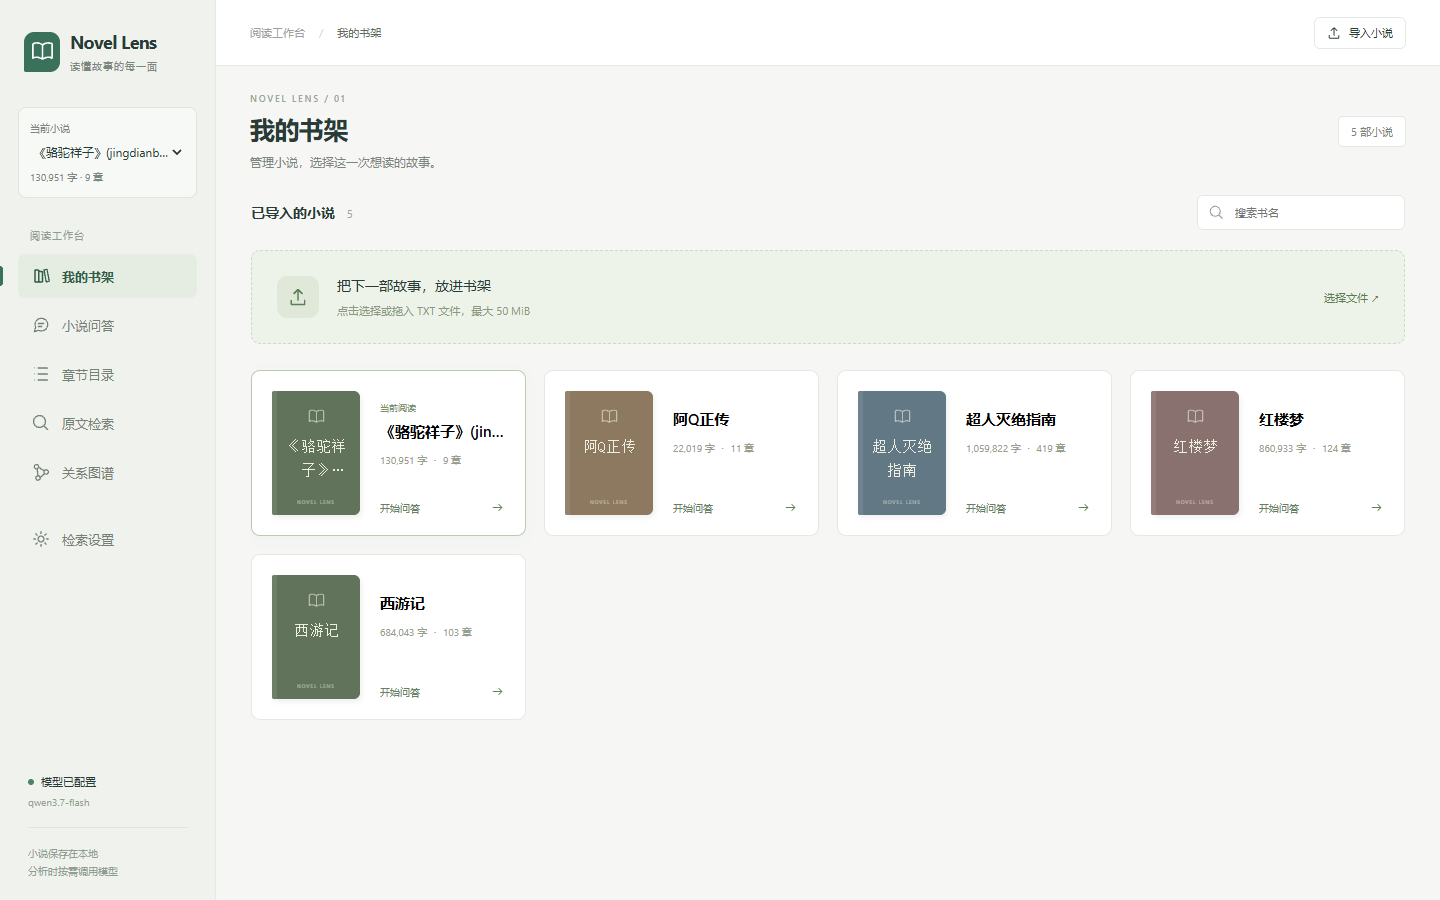
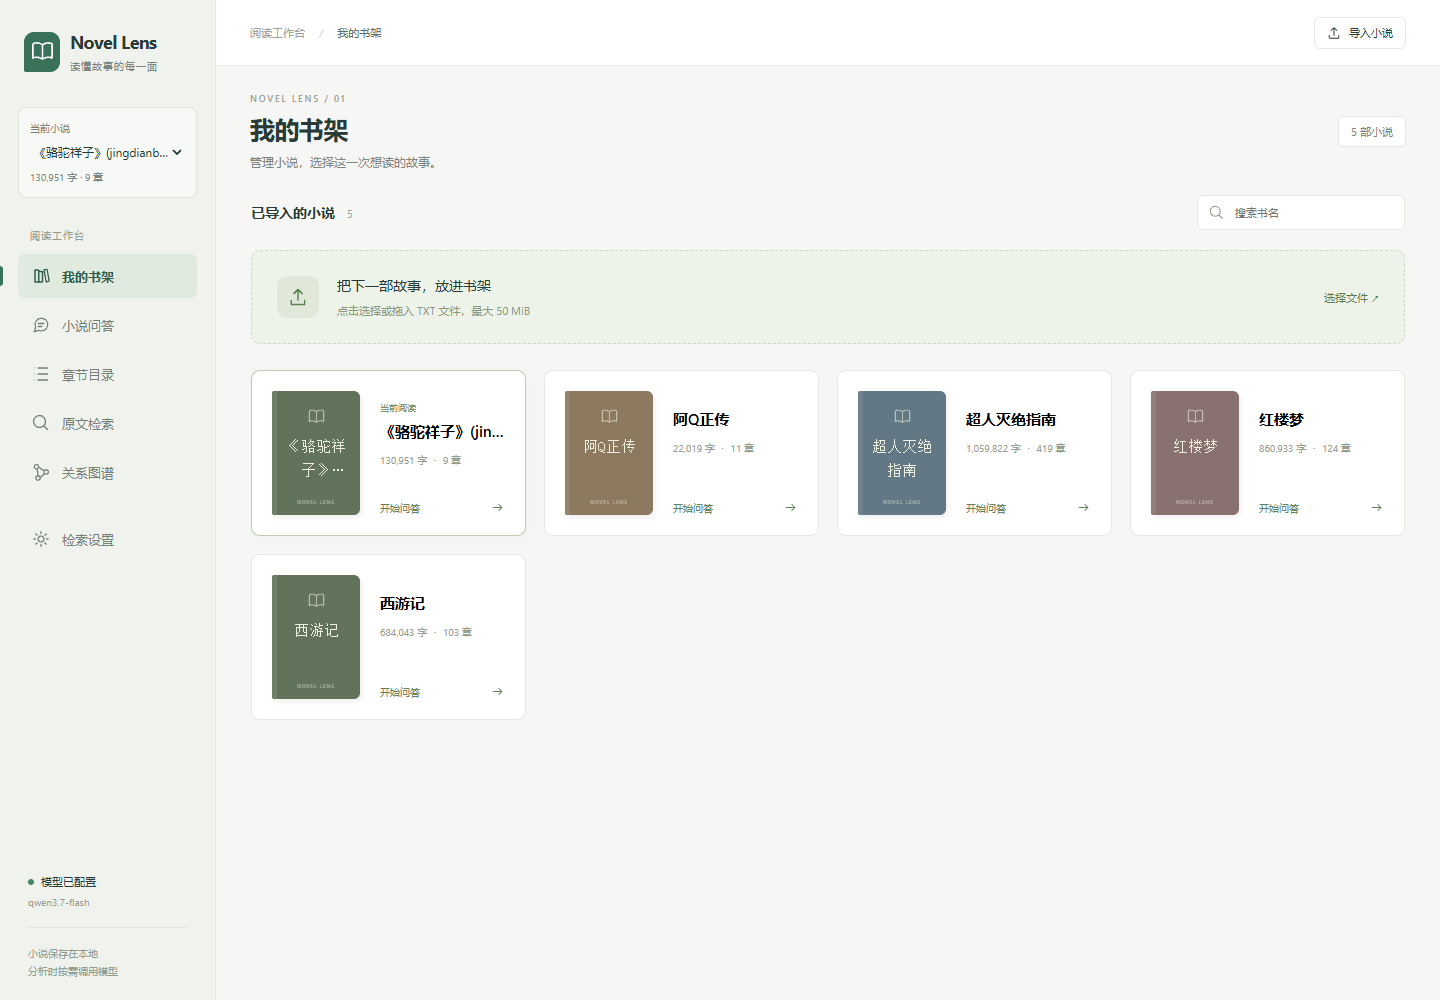
1

diff --git a/frontend/src/components/KnowledgeGraphCanvas.vue b/frontend/src/components/KnowledgeGraphCanvas.vue
@@ -80,6 +80,18 @@ function changeZoom(factor: number) {
   if (!cy) return
   cy.zoom({ level: cy.zoom() * factor, renderedPosition: { x: cy.width() / 2, y: cy.height() / 2 } })
 }
+function handleWheel(event: WheelEvent) {
+  // Handle wheels before Cytoscape so normal scrolling can reach the page's
+  // native scroll container without changing the graph or swallowing scroll.
+  event.stopImmediatePropagation()
+  if (!event.ctrlKey || !cy || !host.value) return
+  event.preventDefault()
+  const unit = event.deltaMode === 1 ? 16 : event.deltaMode === 2 ? cy.height() : 1
+  const delta = Math.max(-200, Math.min(200, event.deltaY * unit))
+  const level = Math.max(cy.minZoom(), Math.min(cy.maxZoom(), cy.zoom() * Math.exp(-delta * 0.002)))
+  const bounds = host.value.getBoundingClientRect()
+  cy.zoom({ level, renderedPosition: { x: event.clientX - bounds.left, y: event.clientY - bounds.top } })
+}
 function selectEdge() {
   if (!cy) return
   cy.edges().removeClass('active')
@@ -185,7 +197,7 @@ onBeforeUnmount(() => { disposed = true; observer?.disconnect(); cy?.destroy() }
       </div>
     </div>
     <p v-if="error" class="graph-canvas-error" role="alert">{{ error }}</p>
-    <div ref="host" class="graph-canvas" aria-label="实体关系图；完整内容亦可在下方列表中查看"></div>
+    <div ref="host" class="graph-canvas" aria-label="实体关系图；Ctrl 加滚轮缩放，完整内容亦可在下方列表中查看" @wheel.capture="handleWheel"></div>
     <div class="graph-canvas-footer">
       <div class="graph-legend"><span v-for="type in legend" :key="type.label"><i :style="{ background: type.color }"></i>{{ type.label }}</span><span v-if="rootId" class="graph-root-hint">光晕标记查询实体</span></div>
       <div class="graph-zoom-controls">
@@ -197,6 +209,6 @@ onBeforeUnmount(() => { disposed = true; observer?.disconnect(); cy?.destroy() }
       <template v-else-if="inspectedEdge"><strong>{{ nodeName(inspectedEdge.source) }} {{ symmetric.includes(inspectedEdge.type) ? '↔' : '→' }} {{ nodeName(inspectedEdge.target) }}</strong><span>{{ relationText }}</span></template>
       <span v-else>{{ dense ? '关系较多，悬停或点选连线可清楚查看关系文字；也可切换为全部显示。' : '悬停查看完整名称与关系，点击连线查看原文证据。' }}</span>
     </div>
-    <p class="graph-canvas-help">拖动画布平移 · 拖动节点调整位置 · 滚轮缩放 · 原大查看可按实际字号阅读</p>
+    <p class="graph-canvas-help">拖动画布平移 · 拖动节点调整位置 · Ctrl + 滚轮缩放 · 原大查看可按实际字号阅读</p>
   </div>
 </template>

diff --git a/frontend/src/components/KnowledgeGraphCanvas.test.ts b/frontend/src/components/KnowledgeGraphCanvas.test.ts
@@ -34,6 +34,33 @@ async function mountCanvas() {
 }
 
 describe('graph readability', () => {
+  it('zooms around the cursor only with Ctrl and leaves normal wheel scrolling unblocked', async () => {
+    const wrapper = await mountCanvas()
+    const cy = graph.cy!
+    cy.zoom(0.7)
+    const host = wrapper.get('.graph-canvas').element
+    const canvas = document.createElement('canvas')
+    host.appendChild(canvas)
+    const nativeWheelHandler = vi.fn()
+    host.addEventListener('wheel', nativeWheelHandler)
+    const ordinary = new WheelEvent('wheel', { deltaY: -100, bubbles: true, cancelable: true })
+    canvas.dispatchEvent(ordinary)
+    expect(cy.zoom()).toBe(0.7)
+    expect(ordinary.defaultPrevented).toBe(false)
+    expect(nativeWheelHandler).not.toHaveBeenCalled()
+
+    const anchor = { x: 200, y: 120 }
+    const before = { x: (anchor.x - cy.pan().x) / cy.zoom(), y: (anchor.y - cy.pan().y) / cy.zoom() }
+    const upward = new WheelEvent('wheel', { deltaY: -100, ctrlKey: true, clientX: anchor.x, clientY: anchor.y, bubbles: true, cancelable: true })
+    canvas.dispatchEvent(upward)
+    expect(upward.defaultPrevented).toBe(true)
+    expect(cy.zoom()).toBeGreaterThan(0.7)
+    expect((anchor.x - cy.pan().x) / cy.zoom()).toBeCloseTo(before.x)
+    expect((anchor.y - cy.pan().y) / cy.zoom()).toBeCloseTo(before.y)
+    canvas.dispatchEvent(new WheelEvent('wheel', { deltaY: 100, ctrlKey: true, bubbles: true, cancelable: true }))
+    expect(cy.zoom()).toBeCloseTo(0.7)
+  })
+
   it('reveals the hovered relationship without the rest of the dense graph obscuring it', async () => {
     const wrapper = await mountCanvas()
     const cy = graph.cy!

diff --git a/README.md b/README.md
@@ -4,11 +4,14 @@
 
 Web 工作台支持小说管理、多轮会话、章节浏览、文本检索、知识图谱，以及 Agent 执行过程和模型用量的实时查看。
 
-![Novel Agent Web 工作台](./assets/ui.png)
+![Novel Lens 我的书架：管理和切换已导入的小说](./assets/ui.png)
+
+从书架选书，在问答中读答案，到原文和关系图里核对出处。更多截图与操作说明见[界面导览](#界面导览)。
 
 ## 导航
 
 - [快速开始](#快速开始)
+- [界面导览](#界面导览)
 - [问答与检索机制](#问答与检索机制)
 - [图知识库](#图知识库)
 - [配置参考](#配置参考)
@@ -61,6 +64,82 @@ python .\start_dev.py
 工作台通过侧栏切换书架、问答、目录、检索、图谱和设置，各页面支持独立的 `#/...` 地址及浏览器前进/后退。问答中的对话、分析过程、原文依据和用量诊断分开展示；切换页面时保留当前任务和输入草稿。
 
 Embedding 与知识图谱是独立的可选能力；仅配置聊天模型即可使用基于 BM25 的问答。
+
+## 界面导览
+
+工作台采用侧栏导航，选中的小说会在各页面之间共用。答案、执行过程、原文证据和用量分开展示，切换页面时保留当前分析任务和输入草稿。以下截图来自本地运行的实际界面，问答和图谱示例使用《骆驼祥子》的已保存结果。
+
+| 页面 | 地址片段 | 主要用途 |
+|---|---|---|
+| 我的书架 | `#/library` | 导入 TXT、按书名查找、切换已保存的小说 |
+| 小说问答 | `#/agent` | 提问与追问，查看答案、分析过程、证据和模型用量 |
+| 章节目录 | `#/structure` | 浏览章节、原文行号和文本片段数量，检查章节识别结果 |
+| 原文检索 | `#/search` | 按关键词搜索，限定章节范围，展开命中段落的上下文 |
+| 关系图谱 | `#/graph` | 搜索实体与别名，探索关联或两者之间的路径，核对关系证据 |
+| 检索设置 | `#/settings` | 为当前小说开关语义索引，查看构建进度、用量和异常记录 |
+
+### 我的书架：选好这一次想读的故事
+
+上方截图是书架页面。点击“导入小说”或把 TXT 拖入上传区，即可解析并保存小说；书卡显示字数与章节数，点击后进入问答。左侧的“当前小说”下拉框也可以切换书籍，已有会话和图谱按小说分别保存。
+
+### 小说问答：答案与调查过程分开看
+
+直接输入问题即可开始，首次发送时自动创建会话；后续可以围绕同一话题继续追问，也可以另建会话。左侧保留会话记录，历史轮次默认收起，提问框固定在对话视图底部。支持 **Ctrl / ⌘ + Enter** 发送，“分析深度”中可以调整最多调查步数；分析期间可以停止，部分失败支持从失败节点重试。
+
+![小说问答：会话列表、带原文引用的回答和底部提问框](./assets/screenshots/novel-qa.png)
+
+会话上方提供四个视图：“对话”阅读答案；“分析过程”查看步骤、计划和执行记录；“原文依据”查看已核验引文并展开上下文；“用量与诊断”查看模型调用、Token 统计和异常信息。
+
+<details>
+<summary>查看分析过程截图</summary>
+
+![分析过程：调查步骤、任务计划与执行记录](./assets/screenshots/analysis-process.png)
+
+</details>
+
+### 章节与检索：回到小说原文
+
+“章节目录”展示解析出的章节标题、行号范围、文本片段数量与识别置信度。目录分页显示，“章节识别详情”中可以检查划分方式和识别提示。
+
+<details>
+<summary>查看章节目录截图</summary>
+
+![章节目录：章节标题、原文位置和识别结果](./assets/screenshots/chapter-directory.png)
+
+</details>
+
+“原文检索”适合先找原文再阅读：输入人物、地点或事件关键词，选择结果数量，按需限定起止章节。结果标出章节、行号、相关度和命中词；点击“查看上下文”可展开相邻原文。“检索状态与用量”默认折叠，方便把注意力放在命中的文字上。
+
+![原文检索：搜索虎妞，查看章节位置与命中片段](./assets/screenshots/text-search.png)
+
+### 关系图谱：从人物出发探索联系
+
+图谱构建完成后，搜索人物或其他实体的名称、别名，选择候选即可查看关系网络；切换查询方式还可以查找两个实体之间的关联路径。章节、实体类型、关系类型和关联层数在筛选区中设置，构建记录收在“构建与管理”中。
+
+![关系图谱：以祥子为中心，按画布比例展开的实体关系网络](./assets/screenshots/relationship-network.png)
+
+- **拖动画布**平移视野，**拖动节点**调整位置；普通滚轮滚动页面，**Ctrl + 滚轮**才缩放关系图。
+- 关系密集时，自动模式收起连线上的文字。**悬停或选中关系**会突出当前连线、淡化其他关系，并在图下方显示完整说明；也可以切换为全部显示文字。
+- **原大查看**切到 100% 缩放，**适应画布**返回整图总览；**重置布局**按当前画布重新排列节点。
+- 点击连线或下方关系列表，可查看对应引文并展开原文上下文。否认关系与人物说法会单独标注，判断关系仍应以原文为准。
+
+<details>
+<summary>查看关系聚焦截图：祥子与虎妞的配偶关系</summary>
+
+![关系聚焦：突出祥子与虎妞的配偶连线，并显示原文依据数量](./assets/screenshots/relationship-focus.png)
+
+</details>
+
+### 检索设置：按小说管理语义索引
+
+关键词检索在导入后即可使用。需要按语义寻找相关段落时，先配置 Embedding，再在这里为当前小说开启索引；页面显示构建进度、已处理片段、请求与缓存统计，以及异常或回退记录。关闭语义检索会保留索引缓存，问答和原文搜索仍可使用关键词检索。
+
+<details>
+<summary>查看检索设置截图</summary>
+
+![检索设置：当前小说的语义检索开关、索引状态与用量统计](./assets/screenshots/retrieval-settings.png)
+
+</details>
 
 ## 问答与检索机制
 
@@ -122,7 +201,7 @@ flowchart TD
 
 ### 构建流程
 
-在“知识图谱”页点击“构建图谱”后，后台依次执行：
+在“关系图谱”页展开“构建与管理”，点击“构建图谱”后，后台依次执行：
 
 1. **划分窗口**：沿用现有正文块，每个抽取窗口正文最多 2500 字，前后各带最多 300 字上下文。
 2. **模型抽取**：提取人物、地点、组织、物品、功法、专有概念，以及师徒、亲属、隶属、敌对、持有、使用等关系和身份线索。
@@ -189,7 +268,7 @@ flowchart TD
 | `EMBEDDING_BASE_URL` | `OPENAI_BASE_URL` | Embedding 服务地址 |
 | `EMBEDDING_REQUEST_TIMEOUT_SECONDS` | `30` | 单次请求超时，5–600 秒 |
 
-配置模型后，在当前小说信息栏开启 Embedding，才会为没有完整缓存的小说构建索引。正文以约 500 字的 Passage、每批最多 10 条发送，页面显示进度。开关按小说生效，同时影响 Agent 与文本检索，关闭开关保留缓存。
+配置模型后，在“检索设置”中为当前小说开启语义检索，才会为没有完整缓存的小说构建索引。正文以约 500 字的 Passage、每批最多 10 条发送，页面显示进度。开关按小说生效，同时影响 Agent 与文本检索，关闭开关保留缓存。
 
 服务启动或上传时若发现当前小说和模型对应的完整有效缓存，会自动加载并启用，不重复发送正文。查询编码有内存缓存。Embedding 消耗以请求数、文本数和字符数展示，不将字符数标为 token；同时记录缓存命中、失败、降级及最近 50 条事件。
 
